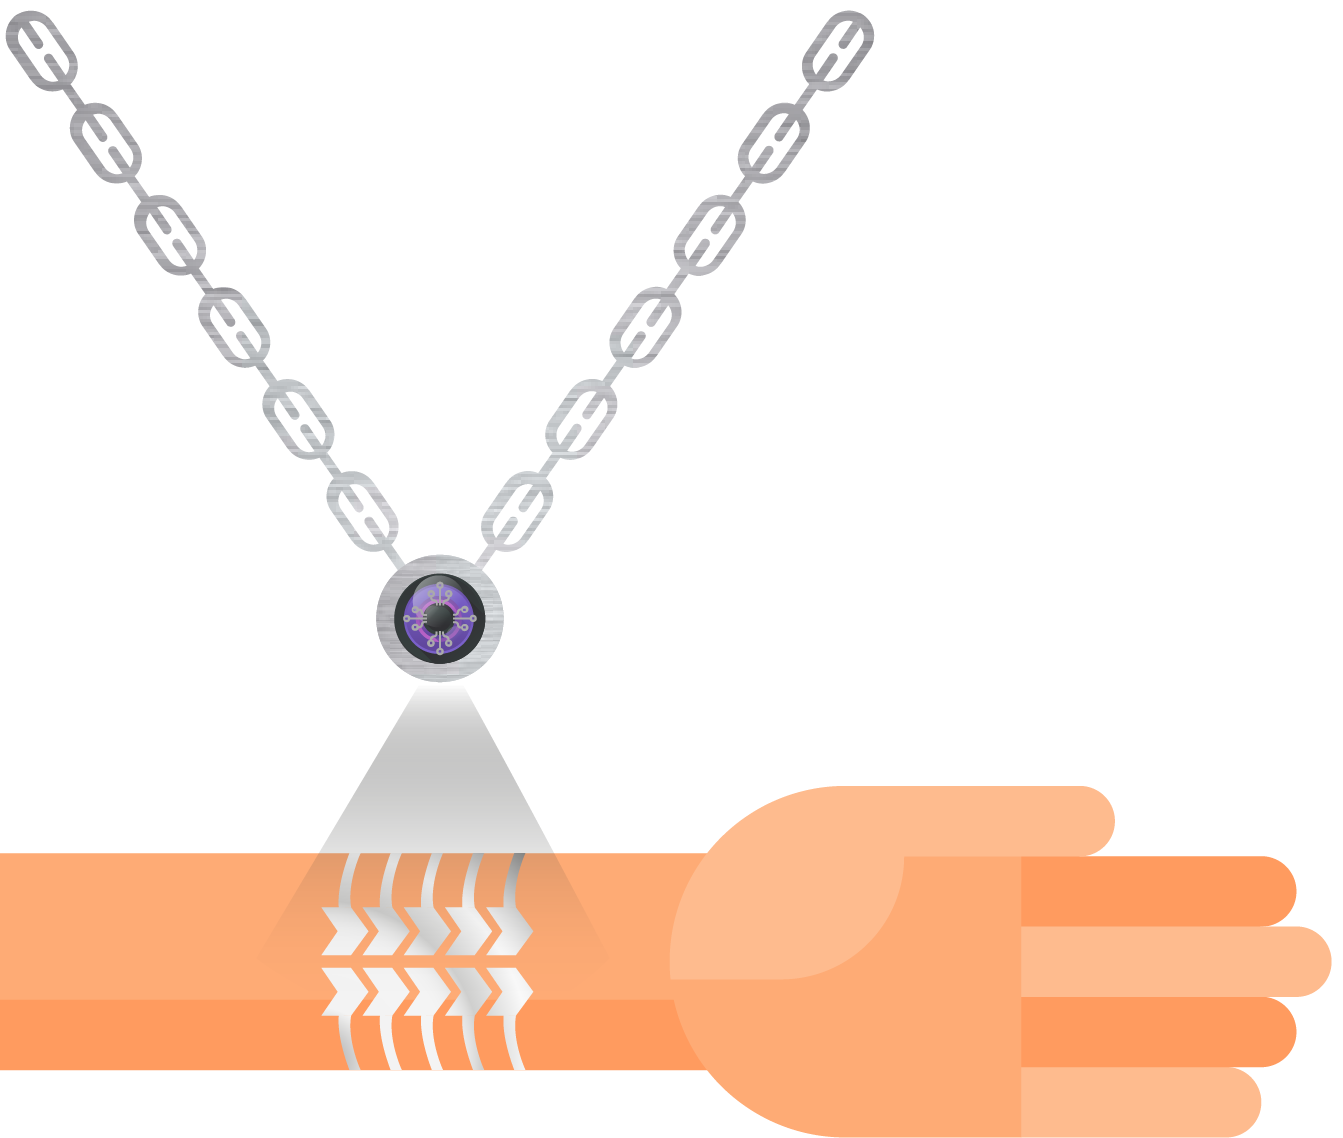
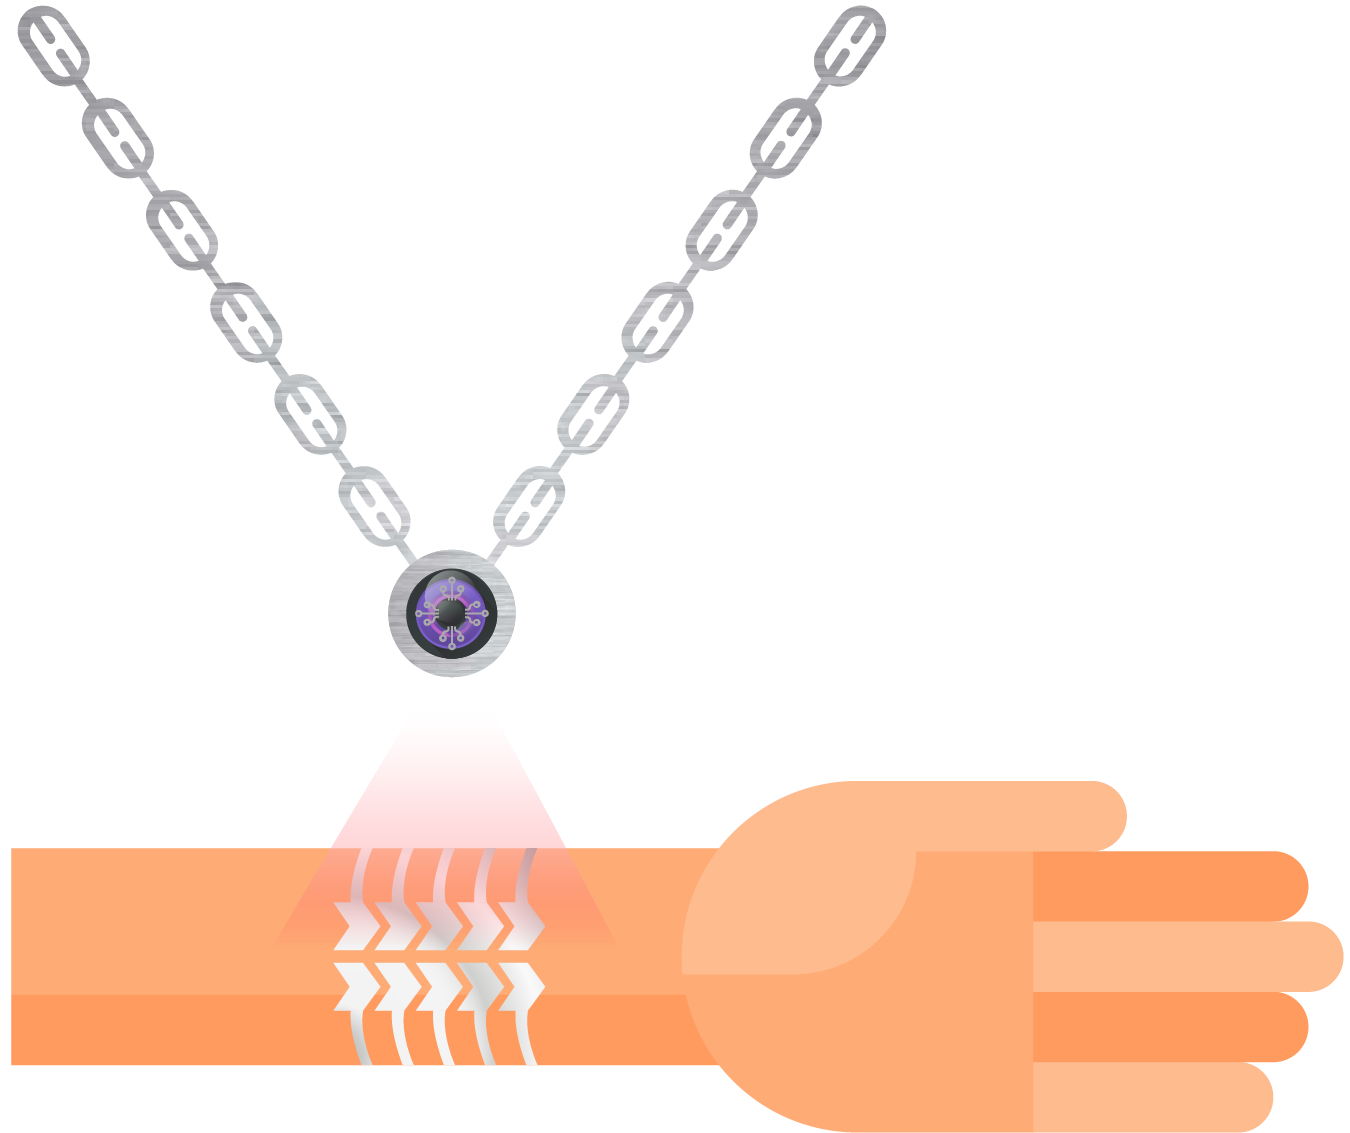
update

diff --git a/wearables.html b/wearables.html
@@ -48,48 +48,39 @@
                 <figure>
                     <img src="img/interactive_necklace.png" alt="key to sociality necklace">
                     <img src="img/tattooscan.png" alt="key to sociality necklace tattoo scan">
+                    <img src="img/necklace_hologram.png" alt="key to sociality necklace hologram friends">
                 </figure>
                 <article>
                     <p class="first-p">
-                    Human-computer interaction (HCI) onderzoekt design en het gebruik van computer technologie, gefocust op interfaces tussen mensen (gebruikers) en computers
-
-                    The best interface is no interface #noUI, wearables zijn no interface en zullen zo gebruiksvriendelijk zijn dat het voor de gebruiker minder duidelijk wordt dat ze met een interface te maken hebben. De computer wordt gedwongen om buiten in de wereld te leven met mensen. In de toekomst zullen digital devices een deel van de gebruikers worden. Een nieuwe vorm van communicatie kan bewerkstelligd worden. Nieuwe sensoren zoals smart tattoos komen op de markt. 
-
-                    In deze opdracht heb ik een interactieve wearable concept bedacht dat sociale interactie stimuleert gebaseerd op smart tattoos. Smart tattoos als een nieuwe manier van communiceren.
+                    In de toekomst zullen digital devices een deel van de gebruikers worden. Een nieuwe vorm van communicatie kan ontstaan en nieuwe sensoren zoals smart tattos komen op de markt. 
+                            
+                    In deze opdracht heb ik een interactief wearable concept bedacht dat sociale interactie stimuleert gebaseerd op smart tattoos. Op deze manier worden smart tattoos als een nieuwe manier van communiceren gebruikt.
                     </p>
-                    <h2>Het concept: “The key to sociality”</h2>
+                    <h2>Het concept: 'The key to sociality'</h2>
                     <p>
-                    Het concept is een ketting die smart tattoos kan detecteren en kan plaatsen in/associëren met sociale groepen om zo een coöperatieve maatschappij te creëren. Wanneer de smart tattoos zijn gedetecteerd, zal het systeem de gegevens van de personen die daar toestemming voor gegeven hebben clusteren en zo gemeenschappelijke eigenschappen zoals liefde voor eten, of gemeenschappelijke persoonlijke eigenschappen zoals zorgzaamheid en nieuwsgierigheid oplichten. Op deze manier kan de gebruiker zien wat voor soort personen er in de buurt zijn en met deze mensen kan hij via het systeem of door middel van een face to face gesprek in contact komen met dit andere individu of andere individuen.
-                    De socials van de personen die gescant zijn, zijn ook te vinden in het hologram, de eigenaar van “the key” kan kiezen om andere individuen te volgen op hun socials. 
-                    Als er contact wordt gemaakt met de tattoo van een ander, dan zal deze een andere kleur aannemen en zal de ketting van deze persoon oplichten en een seintje geven dat er verbinding is gemaakt. Als de persoon het verzoek accepteert ziet hij in zijn hologram wie een verzoek heeft verstuurd en wat de gemeenschappelijke dingen zijn die zij gemeen hebben. Ook kan de persoon verder zoeken naar anderen in de omgeving die ook eigenschappen gemeen hebben, ook zijn er communicatie tips die in het systeem verwerkt zitten. Zo zijn er tips over beter luisteren naar elkaar en kan het systeem dat ook faciliteren door to intervene als een van de personen de ander bijvoorbeeld steeds onderbreekt tijdens het gesprek. 
-                    </p><br /><br />
+                    De 'key to sociality' kan informatie uit de NFC chip van de smart tattoo halen en als een hologram projecteren. De NFC chip in de smart tattoo bevat informatie over de gebruiker (met toestemming van de gebruiker). Deze informatie is geen gevoelige informatie zoals het BSN nummer of rekeningnummers, maar sociale informatie die de gebruiker met anderen wil delen. 
+                    </p>
+                    <h3>Interactie</h3>
                     <p>
-                    •	Describe the interaction. How is space used and how do people use your solution?
-                    •	 Which sensors are used and what do you measure in the environment and users?
-                    •	 Which actuators are used, what reaction does the system give the user?
-                        
-                    NFC wordt gebruikt in de smart tattoos en deze kan de chip in de ketting aflezen. 
-                    
-                    Het is de bedoeling dat alle gebruikers pols tattoos hebben. 
-                    Gebruikers kunnen hun pols tattoos op elkaar leggen om informatie aan elkaar over te dragen. In de nfc zit standaard informatie over deze persoon zoals de socials etc. maar geen gevoelige informatie zoals bsn. Als de gebruiker deze tattoo na de overdracht tegen de ketting aan zet ..
+                    Het is de bedoeling dat alle gebruikers een pols smart tattoo hebbben. Wanneer een gebruiker de smart tattoo van een ander scant, zal het systeem de gegevens van de persoon die de smart tattoo scant en de persoon waarvan de smart tattoo gescant wordt, clusteren om zo gemeenschappelijke dingen zoals liefde voor eten, of fan van dezelfde programma's op te laten lichten in het hologram. <br /><br />
+                    Ook kan de gebruiker op een later tijdstip deze informatie ophalen en bekijken welke andere vrienden deze persoon heeft. De socials van de persoon die gescant is, zijn ook te vinden in het hologram, de eigenaar van “the key” kan kiezen om hem te volgen op zijn socials.
                     <br /><br />
-                    
+                    Als een gebruiker een 'key to sociality' heeft, dan heeft hij ook een smart tattoo. Daarmee kan de gebruiker de key beheren. Gebruikers gebruiken een gezamenlijke ruimte om elkaars smart tattoos te scannen.
+                    <br /><br />
+                    Als er contact wordt gemaakt met de tattoo van een ander, dan zal deze een andere kleur aannemen en zal de ketting van deze persoon oplichten en een seintje geven dat er verbinding is gemaakt. 
                     </p>
                     <h3>Product design</h3>
-                    De materialen die gebruikt worden zijn stainless steel, omdat deze metaal voor dagelijks gebruik geschikt is. Ook is het sterk en gaat het niet snel kapot. 
-                    
-                    
-                        Make sure you give attention to the product design; use of materials, colors, size, etc.
-                    <br /><br />
-                    •	 Support the concept with multiple images (sketches, photos, etc.)
+                    <p>
+                    De "key to sociality" is een ketting met een chip en een projectielens die hologrammen projecteert. De ketting wordt gemaakt met stainless steel, omdat deze metaal voor dagelijks gebruik geschikt is, ook is het sterk en gaat het niet snel kapot. De buitenste ring van de hanger is ook van stainless steel en de projector lens is van hard glas.
+                    </p>
                     <h2>Onderzoek</h2>
                     <p>
-                    ○	A gathering place of your own research within this topic. Do not just give a reference / link to cool projects, but describe in your own words what you have found and what this means (eg for a user, for the field, to you). Why is this so interesting?
-                    <a href="
-                    https://www.nfc-nederland.nl/over-nfc/">NFC</a>
-                    
-                    <a href="
-                    https://www.youtube.com/watch?time_continue=22&v=3gu01JbC7VY">Hologram</a>
+                    Mijn eigen onderzoek binnen dit onderwerp.     
+                    Ik heb hier over <a href="
+                    https://www.nfc-nederland.nl/over-nfc/">NFC kunnen lezen</a> en dat vond ik interessant voor de gebruiker omdat dit het concept realisme geeft. Voor mij interessant om te zien tot hoeveer mijn concept zou kunnen gaan.
+                    <br /><br />
+                    Ook heb ik gezocht naar manieren waarop een hologram geprojecteerd kan worden en ik ben uiteindelijk terechtgekomen bij <a href="
+                    https://www.youtube.com/watch?time_continue=22&v=3gu01JbC7VY">deze manier</a>. Dit vond ik interessant omdat ik wel vaker over hologrammen heb gehooord, maar ik weinig heb gezien die ook echt goed werkten destijde.
                     </p>
                     <h2>Reflectie</h2>
                     <p>

diff --git a/index.html b/index.html
@@ -61,6 +61,8 @@
                      <div>Icons made by <a href="https://www.flaticon.com/authors/icongeek26" title="Icongeek26">Icongeek26</a> from <a href="https://www.flaticon.com/" 			    title="Flaticon">www.flaticon.com</a> is licensed by <a href="http://creativecommons.org/licenses/by/3.0/" 			    title="Creative Commons BY 3.0" target="_blank">CC 3.0 BY</a></div>
                     <div>Icons made by <a href="https://www.flaticon.com/authors/nikita-golubev" title="Nikita Golubev">Nikita Golubev</a> from <a href="https://www.flaticon.com/" 			    title="Flaticon">www.flaticon.com</a> is licensed by <a href="http://creativecommons.org/licenses/by/3.0/" 			    title="Creative Commons BY 3.0" target="_blank">CC 3.0 BY</a></div>
                     <div>Icons made by <a href="https://www.freepik.com/" title="Freepik">Freepik</a> from <a href="https://www.flaticon.com/" 			    title="Flaticon">www.flaticon.com</a> is licensed by <a href="http://creativecommons.org/licenses/by/3.0/" 			    title="Creative Commons BY 3.0" target="_blank">CC 3.0 BY</a></div>
+                    
+                    <!--Human-computer interaction (HCI) onderzoekt design en het gebruik van computer technologie, gefocust op interfaces tussen mensen (gebruikers) en computers-->
                 </article>
             </div>
         </div>

diff --git a/css/style.css b/css/style.css
@@ -31,6 +31,7 @@ h3 {
     width: 100%;
     font-weight: 300;
     padding-bottom: 10px;
+    padding-top: 15px;
 }
 
 .important{
